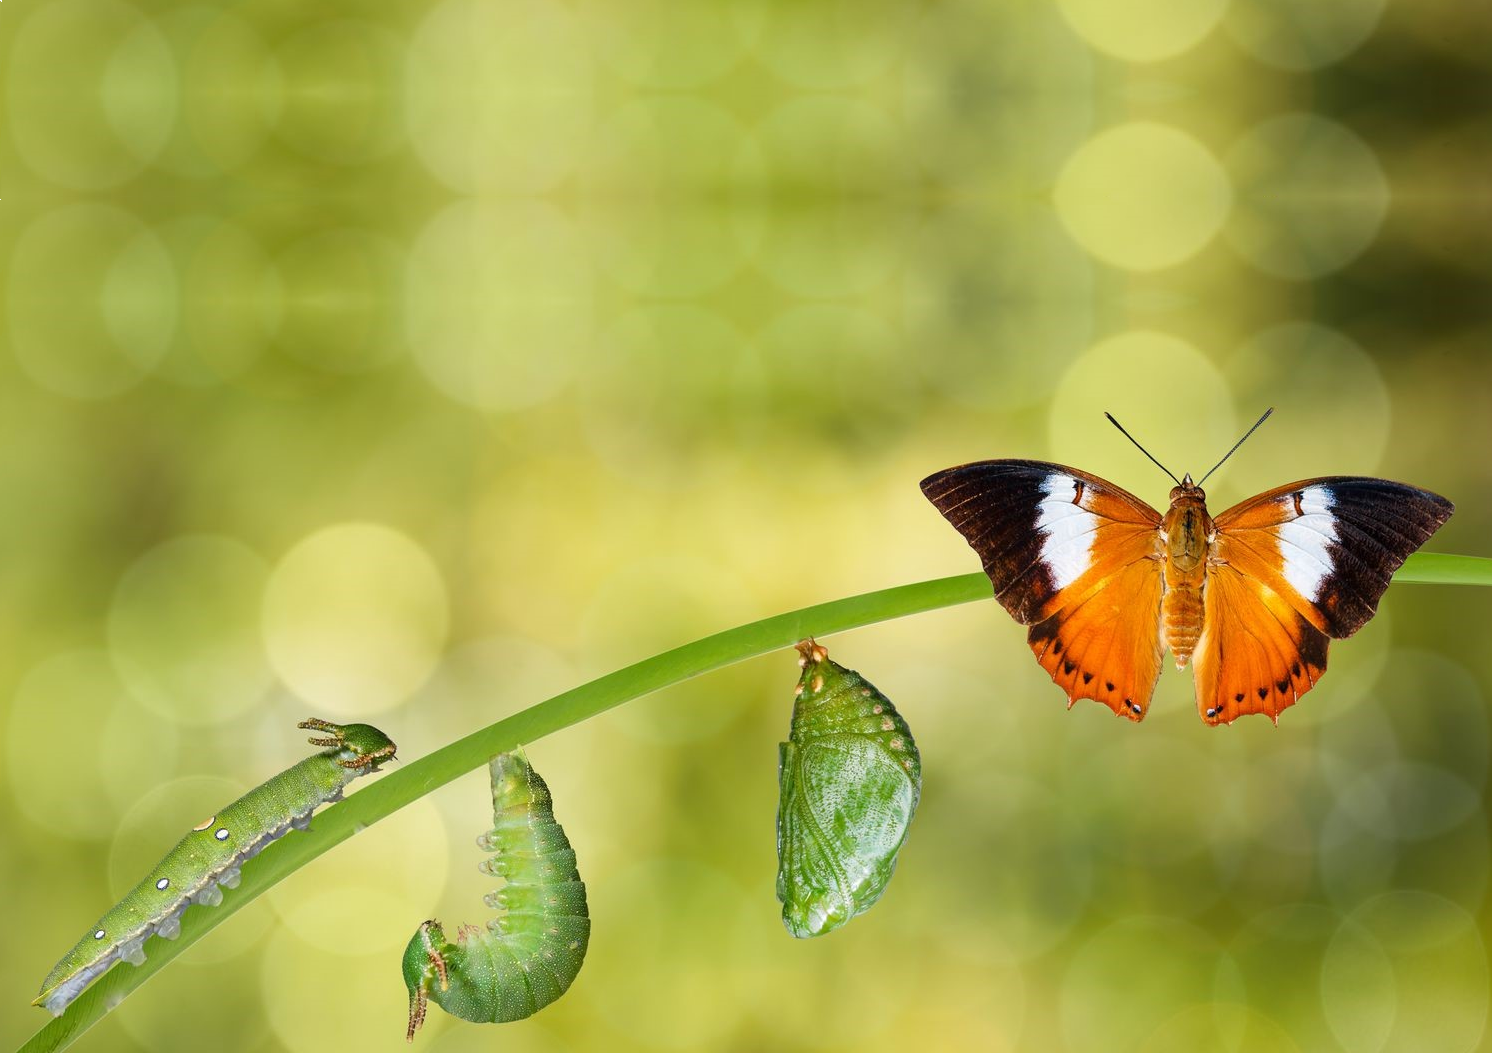
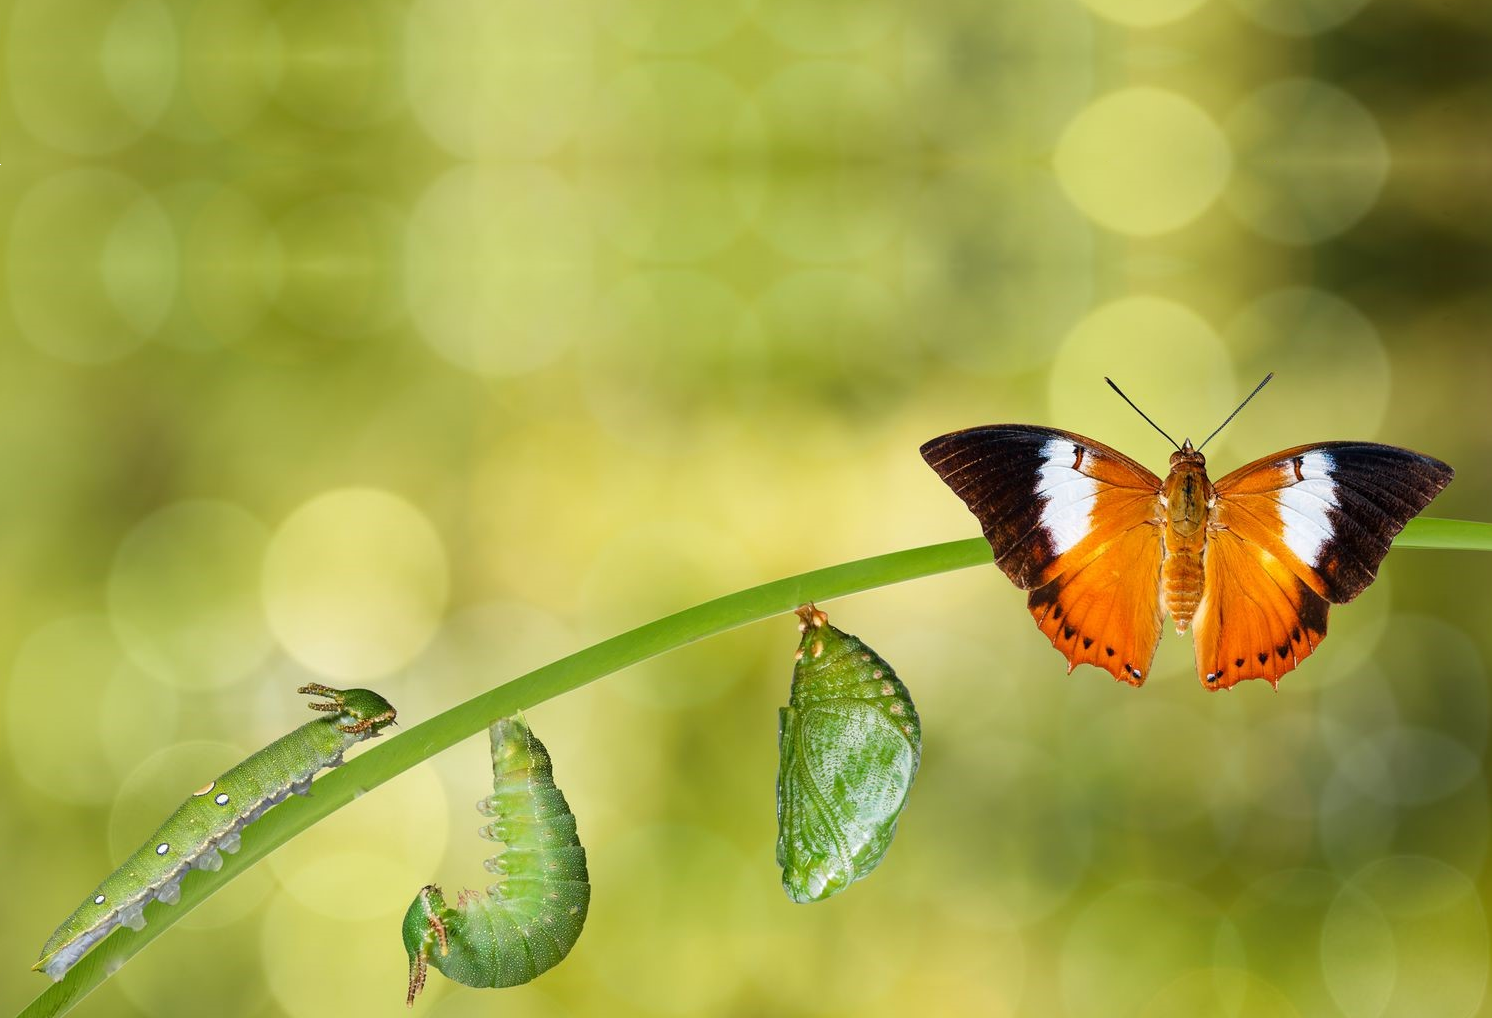
added mediaqueries

diff --git a/src/scss/layout/_hero.scss b/src/scss/layout/_hero.scss
@@ -1,32 +1,33 @@
 .hero {
-    background-image: url(../images/imagen.jpg);
-    height: 500px;
+    background-image: url(../images/retocada.png);
+    height: 17rem;
     background-size: cover;
     background-repeat: no-repeat;
     background-position: center;
-  }
-  .lema {
-    background-color: $white;
-    color: $black;
-    font-family: $font-family-header;
-    font-weight: 500;
-    font-size: 18px;
-    padding: 15px 10px;
-    text-align: center;
-    margin-left: 20px;
-    margin-right: 20px;
-    z-index: 3;
-    transform: translateY(470px);
-  }
-  .teamcontainer__text {
-    text-align: center;
-    font-family: $font-family-cards;
-    line-height: normal;
-    color: $gunmetal;
-    margin-left: 15px;
-    margin-right: 15px;
-  }
-  .teamcontainer__title {
+   
+    &__lema {
+      background-color: $white;
+      color: $black;
+      font-family: $font-family-header;
+      font-weight: 500;
+      font-size: 18px;
+      padding: 15px 10px;
+      text-align: center;
+      margin-left: 20px;
+      margin-right: 20px;
+      z-index: 3;
+      transform: translateY(260px);
+      @media all and (min-width:768px){
+        display: flex;
+        margin-right: 300px;
+        opacity: 0.8;
+        margin-left: 45px;
+        transform: translateY(225px);
+      }
+     
+  } 
+ }
+ .teamcontainer__title {
     font-family: $font-family-header;
     font-weight: 500;
     color: $aqua;
@@ -36,6 +37,15 @@
     padding-top: 50px;
     padding-bottom: 15px;
   }
+  .teamcontainer__text {
+    text-align: center;
+    font-family: $font-family-cards;
+    line-height: normal;
+    color: $gunmetal;
+    margin-left: 15px;
+    margin-right: 15px;
+  }
+  
   .teamcontainer div {
     padding-top: 30px;
     padding-bottom: 30px;
@@ -56,20 +66,22 @@
     position: relative;
     display: flex;
     justify-content: center;
-  }
-   .container__name {
-    font-family: $font-family-header;
-    color: $blue-green;
-    font-weight: 500;
-    font-size: 22px;
-    text-align: center;
-    padding-top: 15px;
-    padding-bottom: 15px;
-  }
-  .container__text {
-    font-family: $font-family-cards;
-    color: $gunmetal;
-    font-size: 16px;
-    line-height: normal;
-    text-align: center;
+
+    &__name {
+      font-family: $font-family-header;
+      color: $blue-green;
+      font-weight: 500;
+      font-size: 22px;
+      text-align: center;
+      padding-top: 15px;
+      padding-bottom: 15px;
+    }
+
+    &__text {
+      font-family: $font-family-cards;
+      color: $gunmetal;
+      font-size: 16px;
+      line-height: normal;
+      text-align: center;
+    }
   }

diff --git a/src/html/partials/hero.html b/src/html/partials/hero.html
@@ -1,6 +1,6 @@
 <section>
   <div class="hero">
-    <div class="lema"> 
+    <div class="hero__lema"> 
       <h2>Tejiendo sueños, forjando éxito</h2>
     </div>
   </div>
